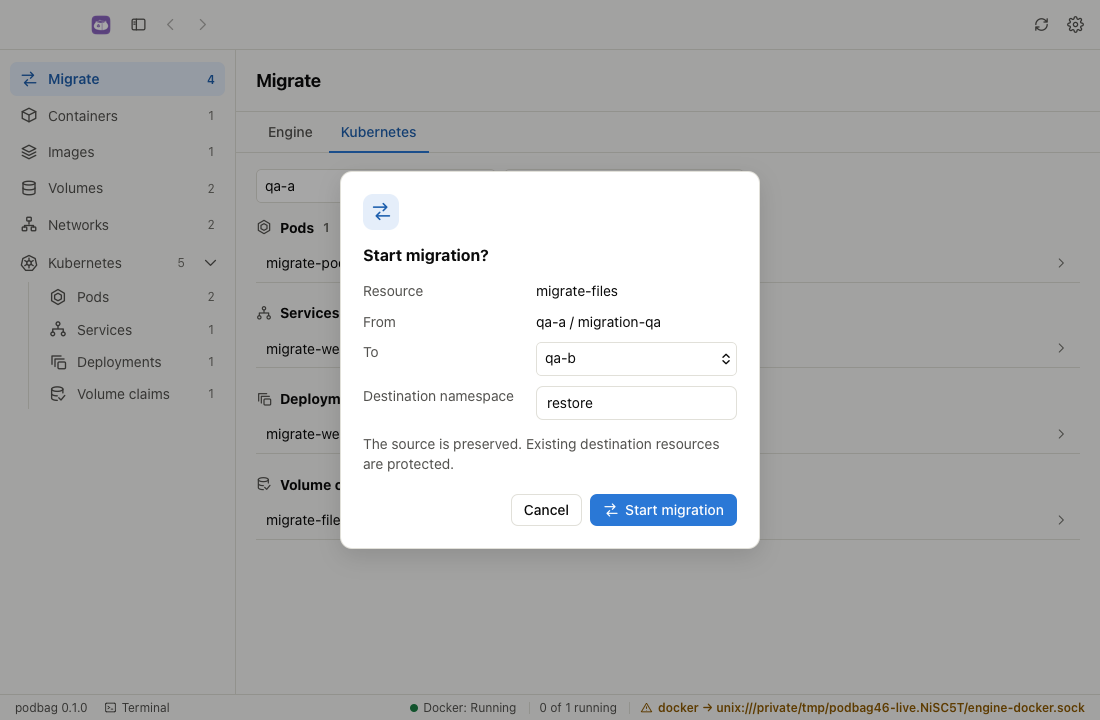
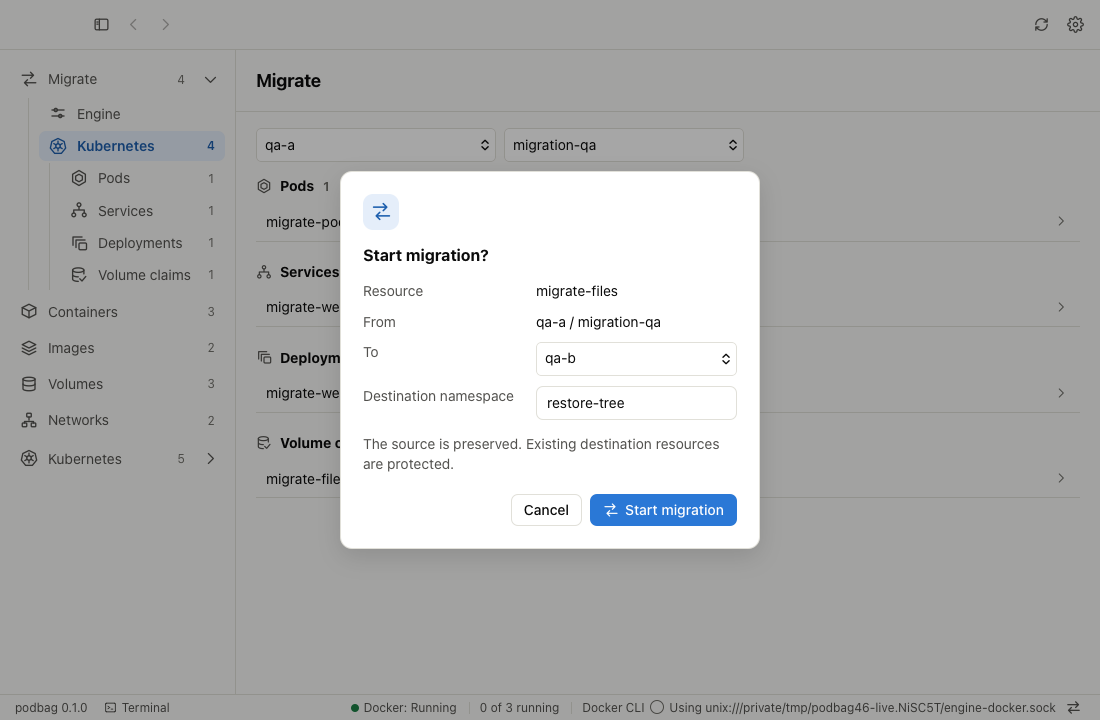
feat: add a resource tree to migration navigation

diff --git a/desktop/ui/migration.js b/desktop/ui/migration.js
@@ -4,13 +4,73 @@ function migrationSocket() {
   return h("input", { type: "text", hidden: true, placeholder: "unix:///path/to/docker.sock", "aria-label": t("engine.socket") });
 }
 
-const migrationScope = { cluster: false, engine: "", context: "", namespace: "" };
+const ENGINE_MIGRATION_KINDS = ["containers", "images", "volumes"];
+const migrationScope = { cluster: false, engine: "", context: "", namespace: "", kind: "", expanded: true, counts: {} };
+
+function openMigration(cluster, kind = "") {
+  const changed = cluster !== migrationScope.cluster;
+  Object.assign(migrationScope, { cluster, kind, expanded: true });
+  if (changed) migrationScope.counts = {};
+  if (S.view !== "migration") return go("migration");
+  updateMigrationNav();
+  if (changed) migrationPanel?.reload();
+  else migrationPanel?.draw();
+}
+
+function updateMigrationNav() {
+  const tree = document.getElementById("nav-migration");
+  if (tree.dataset.lang !== I18N.lang || !tree.firstChild) {
+    const node = (id, symbol, label, click) => h("button", { id: "mnav-" + id, type: "button", class: "nav-item",
+      title: label, "aria-label": label, onclick: click }, icon(symbol), h("span", { class: "label", text: label }), h("span", { class: "count" }));
+    const resources = t("migration.kind");
+    const toggle = h("button", { id: "mnav-toggle", class: "icon-button kube-toggle", type: "button",
+      "aria-controls": "mnav-groups", "aria-label": resources, title: resources, onclick: () => {
+        migrationScope.expanded = !migrationScope.expanded; updateMigrationNav();
+      } }, icon("back"));
+    const groups = [false, true].map(cluster => {
+      const id = cluster ? "kube" : "engine", kinds = cluster ? KUBE_KINDS : ENGINE_MIGRATION_KINDS;
+      const label = t(cluster ? "nav.kubernetes" : "settings.engine");
+      const group = node(id, cluster ? "kubernetes" : "engine", label, () => openMigration(cluster));
+      group.setAttribute("aria-controls", "mnav-" + id + "-kinds");
+      return h("li", {}, group, h("ul", { class: "nav kube-subnav", id: "mnav-" + id + "-kinds", "aria-label": label },
+        kinds.map(kind => h("li", {}, node(kind, cluster ? "kube-" + kind : kind,
+          t((cluster ? "kube." : "nav.") + kind), () => openMigration(cluster, kind))))));
+    });
+    tree.replaceChildren(h("li", {}, h("div", { class: "kube-nav-header" },
+      node("root", "migration", t("migration.title"), () => openMigration(migrationScope.cluster)), toggle),
+      h("ul", { id: "mnav-groups", class: "nav kube-subnav", "aria-label": t("migration.title") }, groups)));
+    tree.dataset.lang = I18N.lang;
+  }
+  const { cluster, kind, counts, expanded } = migrationScope;
+  const selected = cluster ? "kube" : "engine";
+  const values = Object.values(counts);
+  const total = values.length ? values.reduce((a, b) => a + b, 0) : null;
+  const active = S.view === "migration" ? (expanded ? kind || selected : "root") : null;
+  const update = (id, count) => {
+    const el = document.getElementById("mnav-" + id);
+    el.querySelector(".count").textContent = count ?? "";
+    el.title = el.getAttribute("aria-label") + (count == null ? "" : " (" + count + ")");
+    if (id === active) el.setAttribute("aria-current", "page");
+    else el.removeAttribute("aria-current");
+    return el;
+  };
+  document.getElementById("mnav-toggle").setAttribute("aria-expanded", String(expanded));
+  document.getElementById("mnav-groups").hidden = !expanded;
+  update("root", total);
+  for (const group of ["engine", "kube"]) {
+    const open = group === selected;
+    update(group, open ? total : null).setAttribute("aria-expanded", String(open));
+    document.getElementById("mnav-" + group + "-kinds").hidden = !open;
+    for (const key of group === "engine" ? ENGINE_MIGRATION_KINDS : KUBE_KINDS) {
+      update(key, counts[key]).parentElement.hidden = !open || !counts[key];
+    }
+  }
+}
 
 function renderMigration(main) {
-  const engineKinds = ["containers", "images", "volumes"];
   const opt = ([value, text]) => h("option", { value, text });
   const tab = (id, label, cluster) => h("button", { id, class: "tab", type: "button", text: t(label),
-    onclick: () => { if (migrationScope.cluster !== cluster) { migrationScope.cluster = cluster; reload(); } } });
+    onclick: () => openMigration(cluster) });
   const engines = tab("migration-engine-tab", "settings.engine", false);
   const clusters = tab("migration-kube-tab", "nav.kubernetes", true);
   const picker = h("select", { id: "migration-source", "aria-label": t("migration.from") });
@@ -23,16 +83,23 @@ function renderMigration(main) {
   const filters = h("div", { class: "migration-filters" }, picker, socket, scope);
   main.replaceChildren(h("header", { class: "toolbar" }, h("h1", { text: t("migration.title") }),
     windowBar ? null : iconButton("refresh", t("action.refresh"), reload)),
-    h("div", { class: "tabs", role: "group", "aria-label": t("migration.from") }, engines, clusters),
+    h("div", { class: "tabs migration-tabs", role: "group", "aria-label": t("migration.from") }, engines, clusters),
     h("div", { class: "content migration-content" }, filters, resources, status));
 
   let revision = 0, items = [], choices = [], problems = [], pending = 0;
   const current = id => resources.isConnected && revision === id;
-  const kinds = () => migrationScope.cluster ? KUBE_KINDS : engineKinds;
+  const kinds = () => migrationScope.cluster ? KUBE_KINDS : ENGINE_MIGRATION_KINDS;
   const kindLabel = k => t((migrationScope.cluster ? "kube." : "nav.") + k);
   function draw() {
     const visible = items.filter(item => !migrationScope.cluster || !migrationScope.namespace || item.namespace === migrationScope.namespace);
+    const counts = {};
+    for (const row of visible) counts[row.kind] = (counts[row.kind] || 0) + 1;
+    if (!pending && !problems.length) for (const k of kinds()) counts[k] ??= 0;
+    migrationScope.counts = counts;
+    if (!pending && !counts[migrationScope.kind]) migrationScope.kind = "";
+    updateMigrationNav();
     resources.replaceChildren(...kinds().flatMap(kind => {
+      if (migrationScope.kind && migrationScope.kind !== kind) return [];
       const rows = visible.filter(item => item.kind === kind).sort((a, b) => a.label.localeCompare(b.label) || a.source.localeCompare(b.source));
       if (!rows.length) return [];
       return h("section", { class: "migration-group" }, h("h2", {}, icon(migrationScope.cluster ? "kube-" + kind : kind),
@@ -46,9 +113,6 @@ function renderMigration(main) {
     scope.value = migrationScope.namespace;
     put(status, pending ? t("engine.checking") : !visible.length && !problems.length ? t("migration.empty") : "",
       problems.length ? h("details", {}, h("summary", { text: t("migration.unavailable") }), h("ul", {}, problems.map(p => h("li", { text: p })))) : null);
-    S.migrationCount = visible.length || (pending || problems.length ? null : 0);
-    const badge = document.querySelector("#nav .nav-item .count");
-    if (badge) { badge.textContent = S.migrationCount ?? ""; }
     if (!pending && migrationScope.cluster && migrationScope.namespace && !namespaces.includes(migrationScope.namespace)) {
       migrationScope.namespace = ""; draw();
     }
@@ -114,7 +178,7 @@ function renderMigration(main) {
   };
   socket.onchange = reload;
   reload();
-  return { reload };
+  return { reload, draw };
 }
 
 function confirmMigration(item, choices, reload) {

diff --git a/desktop/preview/migration.test.html b/desktop/preview/migration.test.html
@@ -39,8 +39,21 @@ frame.addEventListener("load", async () => {
     check(!toolbar.querySelector("img") && !toolbar.textContent.toLowerCase().includes("podbag"), "Keep the toolbar free of branding");
     check(!by("engine-switch"), "Remove the window engine selector");
     const total = doc.querySelectorAll(".migration-row").length;
-    check(Number(doc.querySelector("#nav .count").textContent) === total, "Count the listed resources");
+    check(Number(doc.querySelector("#mnav-root .count").textContent) === total, "Count the listed resources");
     check([...doc.querySelectorAll(".migration-group")].every(g => g.querySelector(".migration-row")), "Hide empty groups");
+    const leaf = by("mnav-volumes");
+    check(!leaf.parentElement.hidden && Number(leaf.querySelector(".count").textContent) === doc.querySelectorAll('[data-kind="volumes"]').length, "Show each available resource count");
+    leaf.click();
+    check(leaf.getAttribute("aria-current") === "page" && doc.querySelectorAll(".migration-group").length === 1, "Open the resource group from the tree");
+    by("mnav-toggle").click();
+    check(by("mnav-groups").hidden, "Collapse the migration subtree");
+    by("mnav-toggle").click();
+    by("mnav-kube").click();
+    await wait(() => !by("mnav-claims").parentElement.hidden);
+    by("mnav-claims").click();
+    check(!!doc.querySelector('.migration-row[data-kind="claims"]'), "Open a cluster claim from the migration tree");
+    by("mnav-engine").click();
+    await wait(() => row());
     row().click();
     const dlg = () => doc.querySelector(".migration-dialog");
     check(dlg().dataset.phase === "confirm" && calls === 0, "Review before writing");

diff --git a/desktop/ui/app.js b/desktop/ui/app.js
@@ -11,7 +11,6 @@ const S = {
   kubeKind: "pods",
   kubeCounts: {},
   kubeAllNamespaces: false,
-  migrationCount: null,
   kubeContext: sessionStorage.getItem("kube-context") || "",
   connection: null,
   contexts: [],
@@ -544,8 +543,8 @@ function renderNav() {
     type: "button", class: "nav-item", "aria-current": S.view === view ? "page" : null, onclick: () => go(view),
     title: label,
   }, icon(view), h("span", { class: "label", text: label }), h("span", { class: "count", text: count ?? "" })));
-  nav.replaceChildren(item("migration", t("migration.title"), S.migrationCount),
-    ...KINDS.map(k => item(k, t(`nav.${k}`), S.loaded && !S.listErrors[k] ? S.lists[k].length : null)));
+  updateMigrationNav();
+  nav.replaceChildren(...KINDS.map(k => item(k, t(`nav.${k}`), S.loaded && !S.listErrors[k] ? S.lists[k].length : null)));
   updateKubeNav();
   if (windowBar) {
     const [reload, settings] = document.getElementById("topbar-tools").children;

diff --git a/desktop/ui/style.css b/desktop/ui/style.css
@@ -595,6 +595,9 @@ dialog.import { width: min(520px, calc(100vw - 48px)); }
 .docker-settings .docker-route:has(.docker-pending) { color: var(--accent-text); background: var(--accent-soft); }
 .docker-settings .docker-route:has(.docker-applied) { color: var(--green); background: var(--green-soft); }
 
+.app:not(.collapsed):has(#mnav-toggle[aria-expanded="true"]) .migration-tabs { display: none; }
+#nav-migration .kube-subnav .kube-subnav { margin-inline-start: 10px; }
+.collapsed #nav-migration .kube-subnav .kube-subnav { margin-inline-start: 0; }
 .migration-content { padding: 16px 20px 24px; }
 .migration-filters { display: flex; align-items: center; flex-wrap: wrap; gap: 8px; margin-bottom: 14px; }
 .migration-filters select { max-width: 100%; }

diff --git a/desktop/ui/index.html b/desktop/ui/index.html
@@ -65,6 +65,7 @@
     <div class="topbar-tools" id="topbar-tools" role="toolbar" aria-label="podbag" focusgroup="toolbar wrap"></div>
   </header>
   <nav class="sidebar" id="sidebar" aria-label="podbag">
+    <ul class="nav" id="nav-migration"></ul>
     <ul class="nav" id="nav"></ul>
     <ul class="nav" id="nav-kubernetes"></ul>
     <div class="spacer"></div>

diff --git a/docs/usage.md b/docs/usage.md
@@ -673,7 +673,9 @@ podbag tui --engine unix:///run/kiri/docker.sock
 ### Migrate between engines or Kubernetes clusters
 
 In Podbag Desktop, open **Migrate**. The list shows the resources found on your local engines.
-Use the Kubernetes tab to choose a source cluster and namespace. Select a resource,
+Expand **Migrate** in the sidebar. Select **Engine** or **Kubernetes**, then choose
+a populated resource type to filter the list. For Kubernetes, choose a source cluster
+and namespace. Select a resource,
 choose its destination and start the migration. The dialog reports progress,
 verifies the destination and keeps the source. Existing destination containers and
 volumes block the copy. An identical image can be reused.
